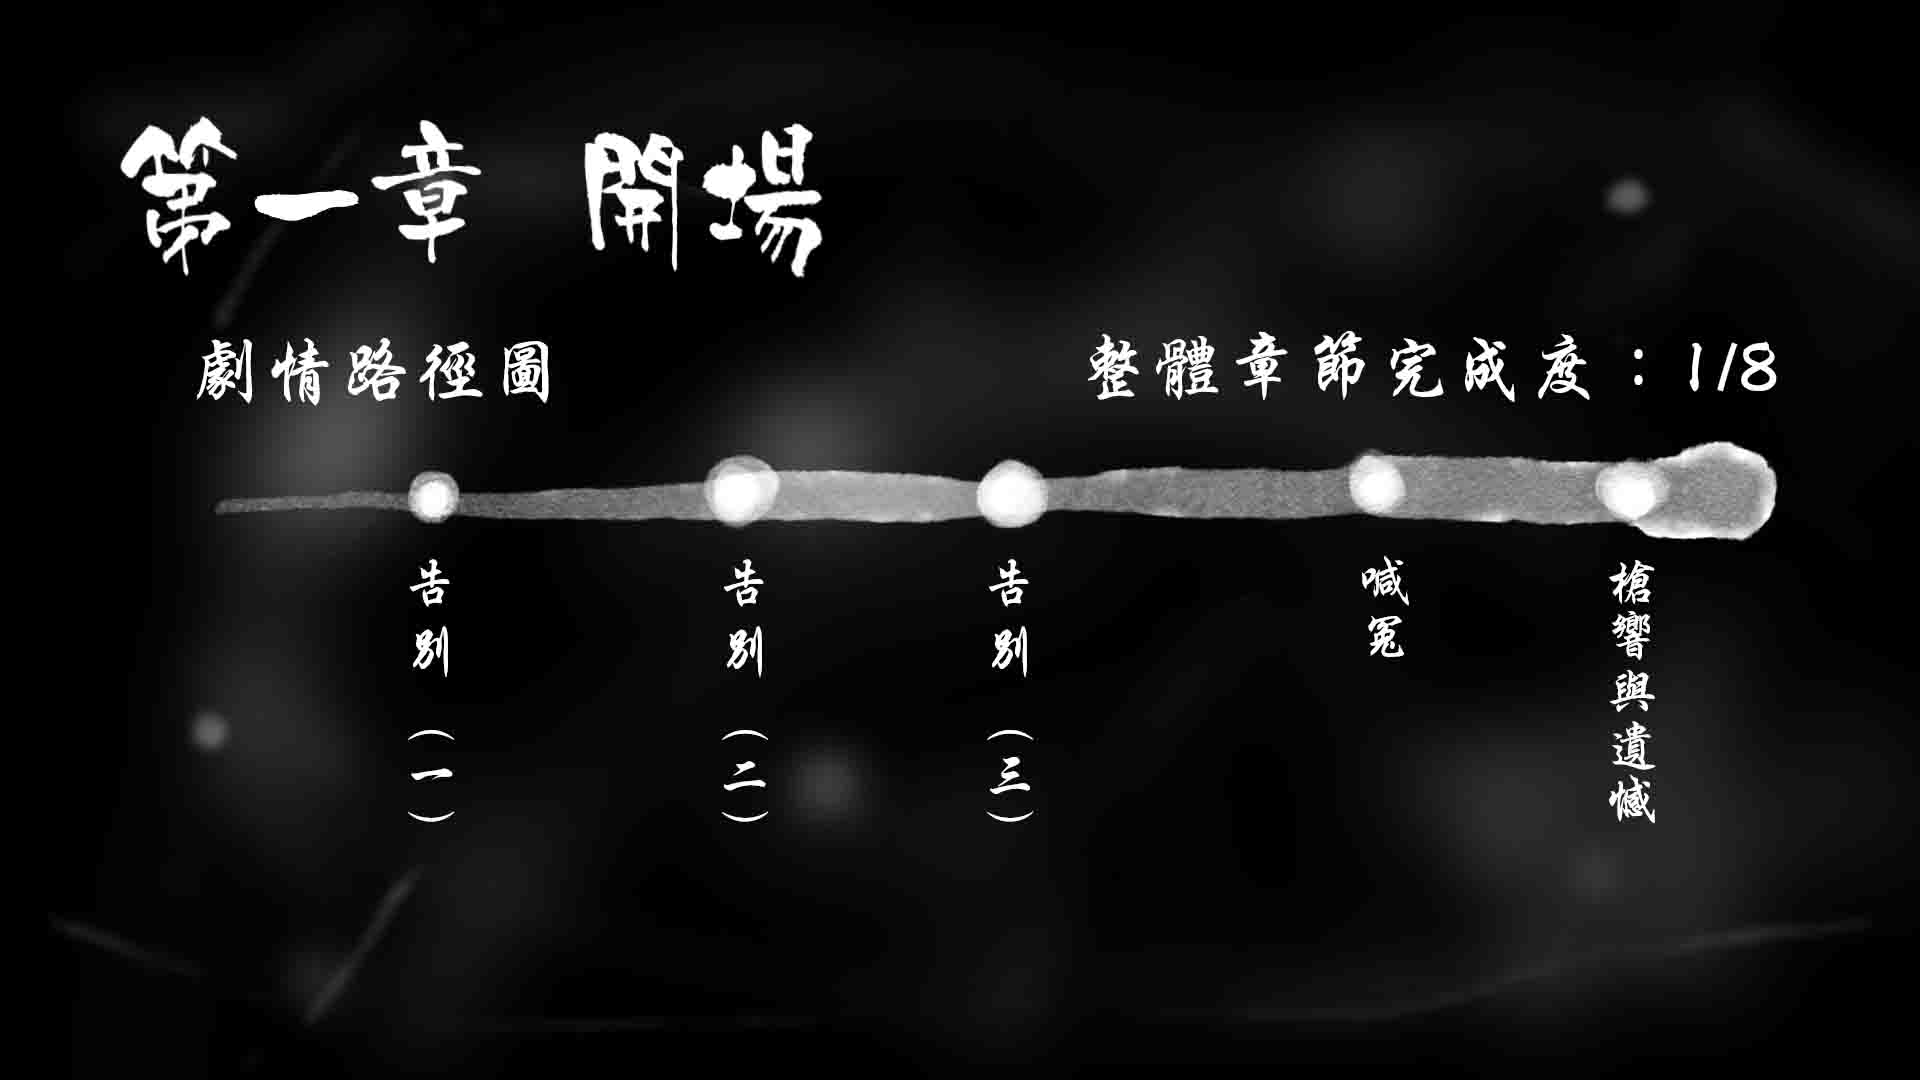
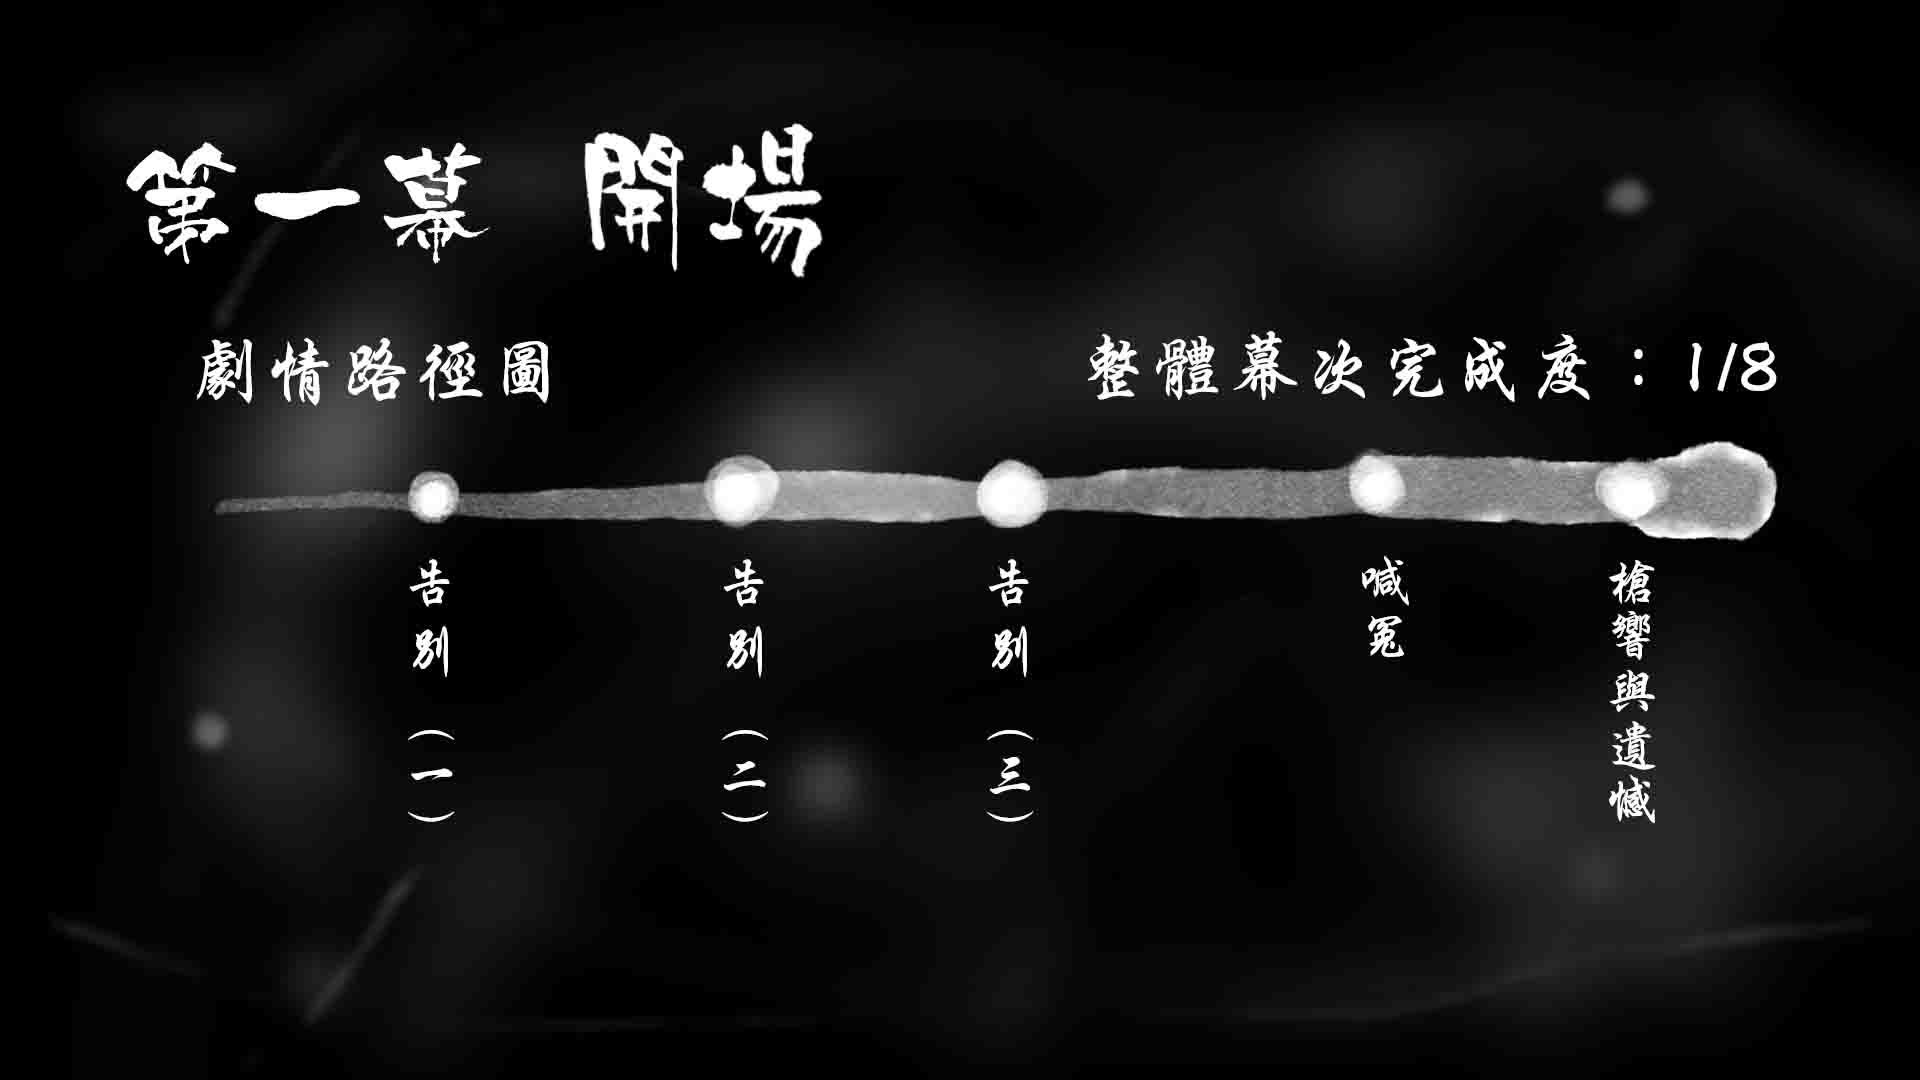
321

Changed region(s): [[0.1875, 0.0917, 0.25, 0.2444], [0.0625, 0.0917, 0.125, 0.2444], [0.625, 0.3056, 0.7188, 0.3667]]

diff --git a/index-ch03-wr-07.html b/index-ch03-wr-07.html
@@ -20,7 +20,7 @@
 	
 	<div class="footer">
 	<div class="index"><a href="index-1.html">| 回首頁 |</a></div>
-	<div class="title">第三章：自殺</div>
+	<div class="title">第三幕：自殺</div>
 	<div class="previous"><a href="index-ch03-wr-05.html"><span>◀</span></a></div>
 	<div class="next"><a href=""><span>▶</span></a></div>
 	<img src="images/logo.gif" style="height: 7.5vh; position: fixed; bottom: 3vh; left: 5vw;" alt="logo">
@@ -32,7 +32,7 @@
 	</div>
 	
 	<div class="blac-main" style="width: 100vw; height: 100vh; background-color: #0F0F0F; position: fixed; opacity: 0.9; color: #FFFFFF; z-index: 30;display: block; text-align: center;">
-		<div style="font-family: 'Noto Sans TC', serif; display: block; text-align: center; position: fixed;width: 100vw; top: 35vh;font-size: 8vmin;letter-spacing: 5px;">這不屬於陳澄波該有的人生，<br>請重新選擇！</div>
+		<div style="font-family: 'Noto Sans TC', serif; display: block; text-align: center; position: fixed;width: 100vw; top: 35vh;font-size: 8vmin;letter-spacing: 5px;">這不是陳澄波原有的人生，<br>請重新選擇！</div>
 		<a href="index-ch03-07.html" style="font-family: 'Noto Sans TC', serif; font-size: 16px; display: block; text-align: center; border: none; border-radius: 3px; color: #2B2B2B; background-color: #FFFFFF; opacity: 0.9;cursor: pointer;position: fixed;width: 170px; height: 30px;left: 50%; margin-left: -100px; top: 60vh;text-decoration: none;line-height: 30px;letter-spacing: 2px;">回到選擇頁面</a>
 	
 	</div>

diff --git a/ch05/index-ch05-10.html b/ch05/index-ch05-10.html
@@ -15,7 +15,7 @@
 	
 	<div class="footer">
 	<div class="index"><a href="../index-1.html">| 回首頁 |</a></div>
-	<div class="title">第五章：妻子諒解</div>
+	<div class="title">第五幕：妻子諒解</div>
 	<div class="previous"><a href="index-ch05-09.html"><span>◀</span></a></div>
 	<div class="next"><a href="index-ch05-11.html"><span>▶</span></a></div>
 	<img src="../images/logo.gif" style="height: 7.5vh; position: fixed; bottom: 3vh; left: 5vw;" alt="logo">

diff --git a/index-ch03-wr-05.html b/index-ch03-wr-05.html
@@ -15,7 +15,7 @@
 	
 	<div class="footer">
 	<div class="index"><a href="index-1.html">| 回首頁 |</a></div>
-	<div class="title">第三章：判刑</div>
+	<div class="title">第三幕：判刑</div>
 	<div class="previous"><a href="index-ch03-wr-04.html"><span>◀</span></a></div>
 	<div class="next"><a href="index-ch03-wr-06.html"><span>▶</span></a></div>
 	<img src="images/logo.gif" style="height: 7.5vh; position: fixed; bottom: 3vh; left: 5vw;" alt="logo">

diff --git a/index-ch03-wr-06.html b/index-ch03-wr-06.html
@@ -15,7 +15,7 @@
 	
 	<div class="footer">
 	<div class="index"><a href="index-1.html">| 回首頁 |</a></div>
-	<div class="title">第三章：自殺</div>
+	<div class="title">第三幕：自殺</div>
 	<div class="previous"><a href="index-ch03-wr-05.html"><span>◀</span></a></div>
 	<div class="next"><a href="index-ch03-wr-07.html"><span>▶</span></a></div>
 	<img src="images/logo.gif" style="height: 7.5vh; position: fixed; bottom: 3vh; left: 5vw;" alt="logo">

diff --git a/ch05/index-ch05-07.html b/ch05/index-ch05-07.html
@@ -10,7 +10,7 @@
 <body>	
 	<div class="footer">
 	<div class="index"><a href="../index-1.html">| 回首頁 |</a></div>
-	<div class="title">第五章：說明原委</div>
+	<div class="title">第五幕：說明原委</div>
 	<div class="previous"></div>
 	<div class="next"><a href="index-ch05-08.html"><span>▶</span></a></div>
 	<img src="../images/logo.gif" style="height: 7.5vh; position: fixed; bottom: 3vh; left: 5vw;" alt="logo">
